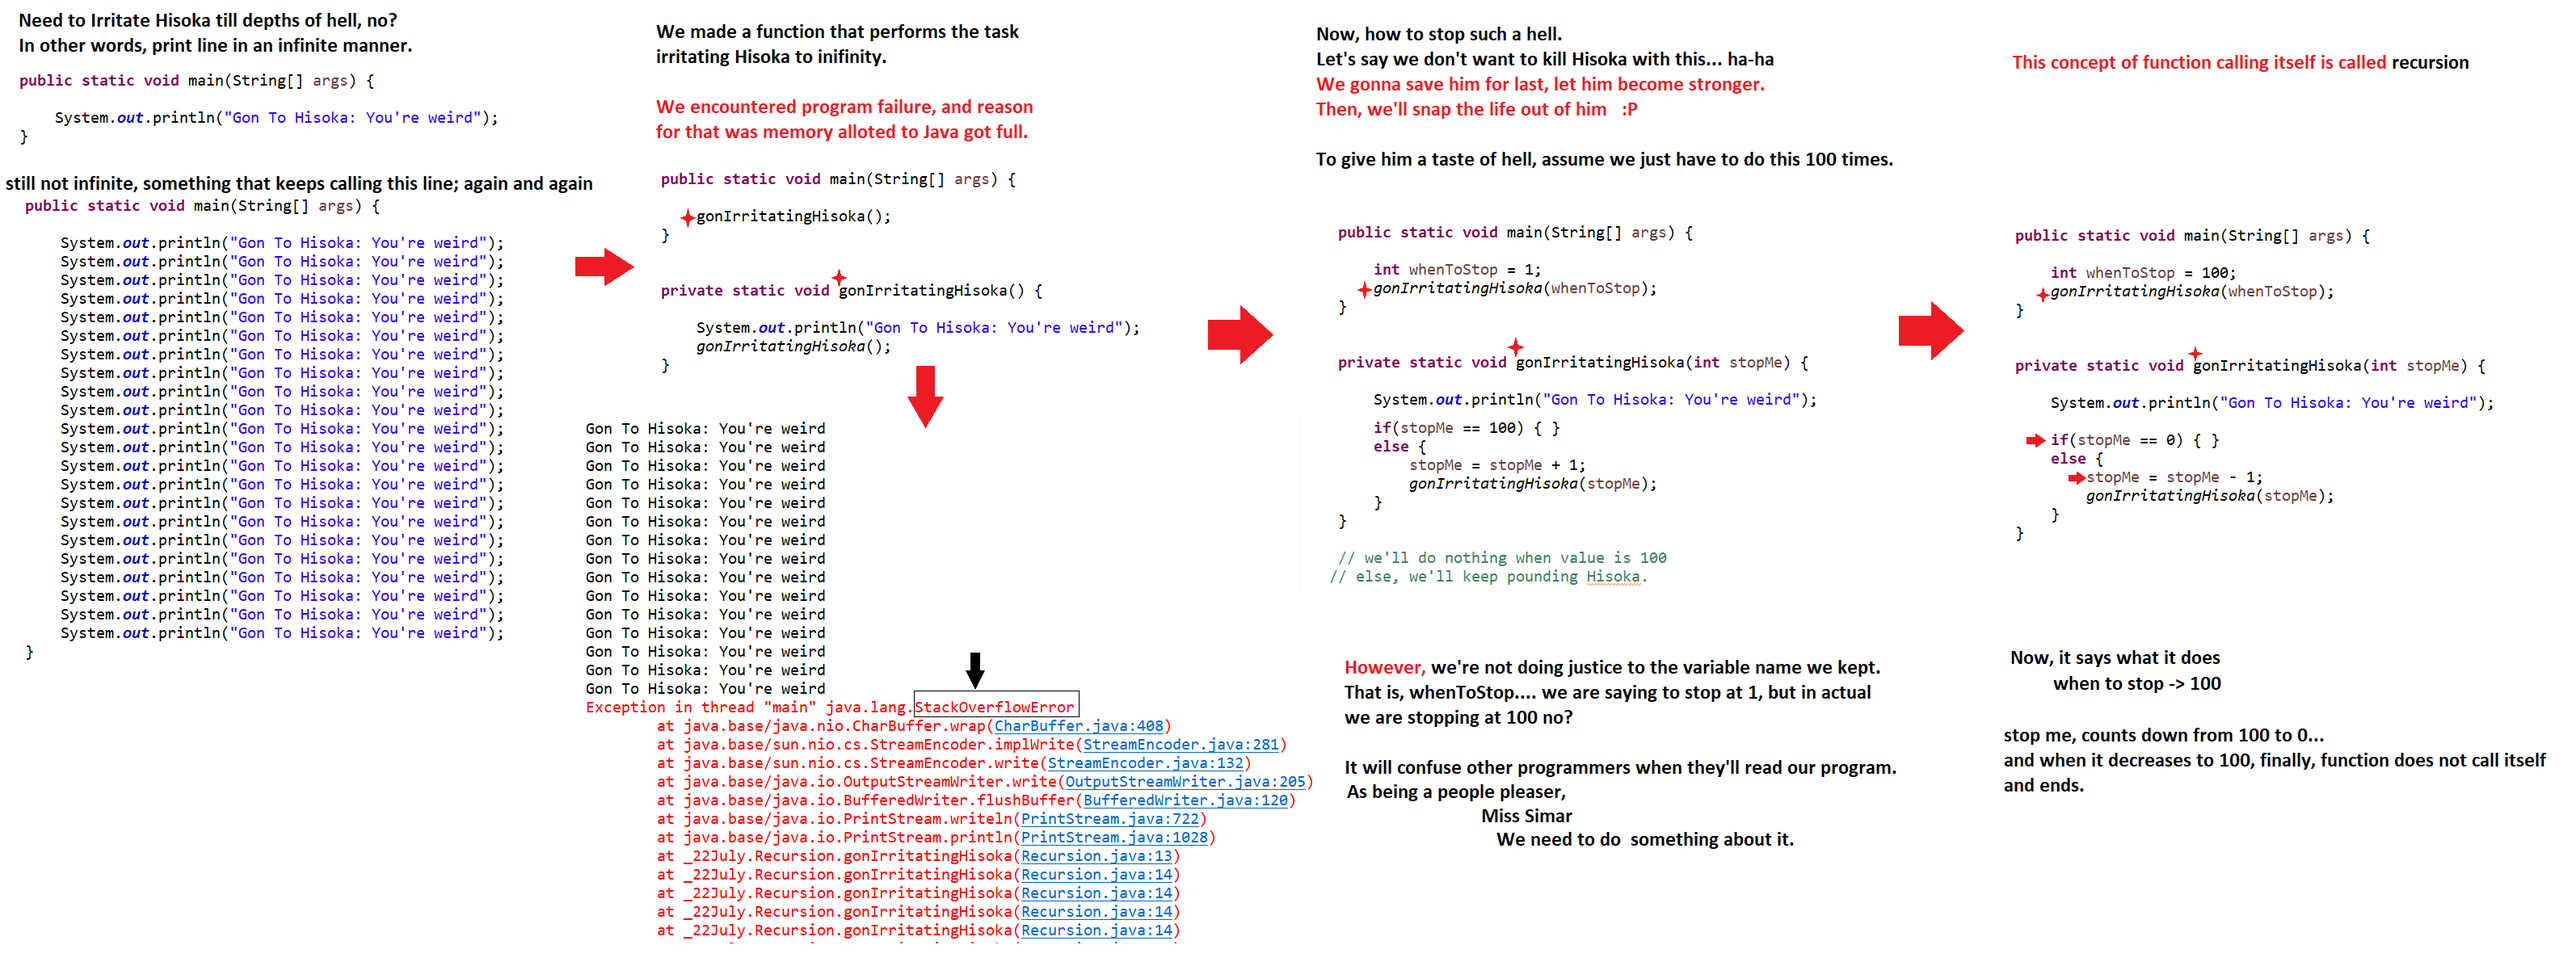
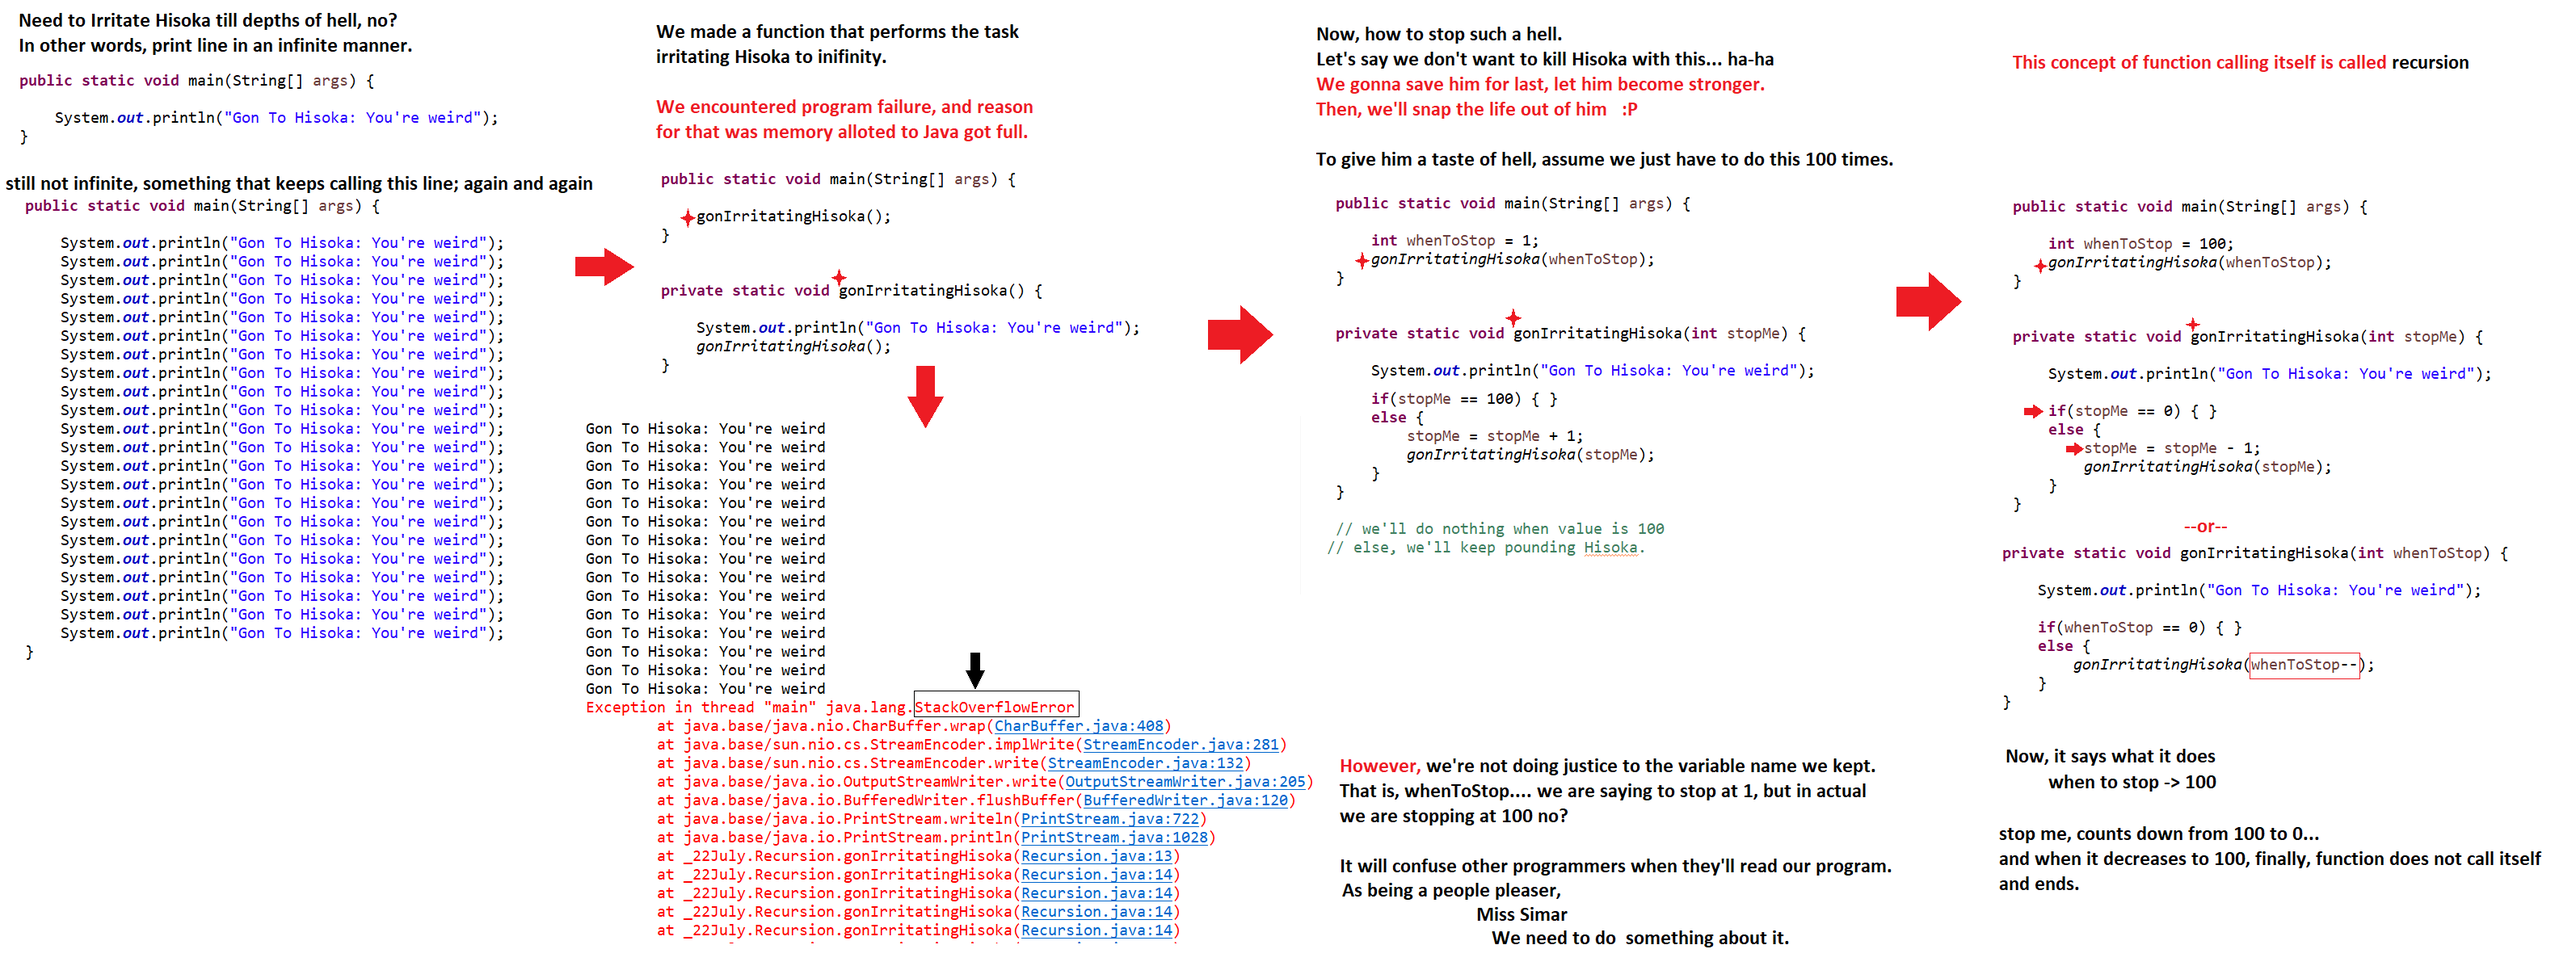
modified recursion things: ek thaan te hee pauna code rather vkhri lines ch likhna

diff --git a/simar_Learning/src/_22July/Recursion.java b/simar_Learning/src/_22July/Recursion.java
@@ -9,14 +9,13 @@ public class Recursion {
 	}
 
 
-	private static void gonIrritatingHisoka(int stopMe) {
+	private static void gonIrritatingHisoka(int whenToStop) {
 
 		System.out.println("Gon To Hisoka: You're weird");
 
-		if(stopMe == 0) { }
+		if(whenToStop == 0) { }
 		else {				
-			stopMe = stopMe - 1;
-			gonIrritatingHisoka(stopMe); 
+			gonIrritatingHisoka(whenToStop--); 
 		}
 	}
 	
@@ -27,6 +26,17 @@ public class Recursion {
 /*
 
 
+2nd
+	private static void gonIrritatingHisoka(int whenToStop) {
+
+		System.out.println("Gon To Hisoka: You're weird");
+
+		if(whenToStop == 0) { }
+		else {				
+			gonIrritatingHisoka(whenToStop--); 
+		}
+	}
+	
 
 
 1st
@@ -66,7 +76,7 @@ public class Recursion {
 
 		//1->2  
 		stopME++;
-		//stopME + 1 | stopME += 5
+		//stopME + 1 | stopME += 1
 
 		gonIrritatingHisoka(stopME);//recursion
 
